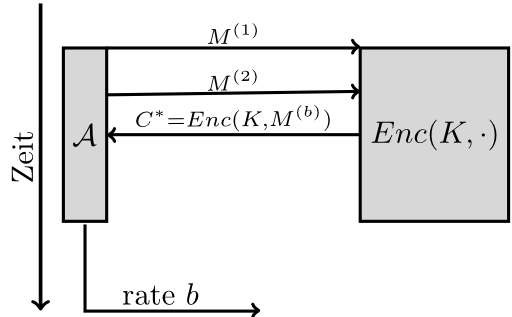
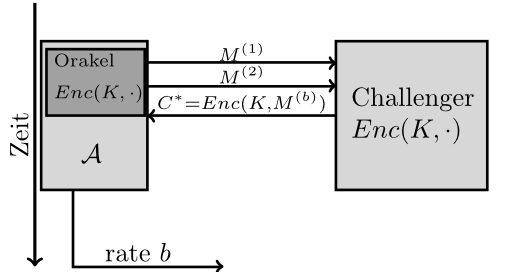
added Orakel and challenger

Changed region(s): [[0.0, 0.0, 1.0, 1.0], [0.125, 0.7059, 0.5312, 1.0]]

diff --git a/tikz/IND-CPA-Game/IND-CPA-Game.tex b/tikz/IND-CPA-Game/IND-CPA-Game.tex
@@ -9,14 +9,19 @@
 \tikzstyle{vertex}=[draw,fill=black!15,circle,minimum size=20pt,inner sep=0pt]
 \tikzstyle{encrypt}=[draw,fill=black!15,rectangle,minimum size=20pt,inner sep=0pt]
 \begin{tikzpicture}
-    \node (A)[draw, minimum height=2cm,fill=black!15] at (0,0) {$\mathcal{A}$};
-    \node (E)[draw, minimum height=2cm,fill=black!15] at (4,0) {$Enc(K, \cdot)$};
+    \draw[fill=black!15] (-0.4,-1) -- (1,-1) -- (1,1) -- (-0.4,1) --cycle;
+    \draw[fill=black!35] (-0.35,0) -- (0.95,-0) -- (0.95,0.9) -- (-0.35,0.9) --cycle;
+    \draw[fill=black!15] (3.5,-1) -- (5.5,-1) -- (5.5,1) -- (3.5,1) --cycle;
+    \node (A) at (0.25,-0.5) {$\mathcal{A}$};
+    \node[text width=2cm] (E) at (4.7,0) {Challenger\\$Enc(K, \cdot)$};
+    \node[text width=1.5cm] (O) at (0.5,0.5) {\scriptsize{Orakel\\$Enc(K, \cdot)$}};
 
-    \draw[->,thick] (A.north east)     -- node[sloped, above=-0.1cm] {$\scriptstyle M^{(1)}$} (E.north west);
-    \draw[->,thick] (A.60)             -- node[sloped, above=-0.1cm] {$\scriptstyle M^{(2)}$} (E.150);
-    \draw[->,thick] (E.179)            -- node[sloped, above=-0.1cm] {$\scriptstyle C^* = Enc(K, M^{(b)})$} (A.east);
 
-    \draw[->,thick] (A.south)|- node[sloped, above=0.19cm,right=0.3cm] {rate $b$} (2,-2);
+    \draw[->,thick] (1,0.7)  -- node[sloped, above=-0.1cm] {$\scriptstyle M^{(1)}$} (3.5,0.7);
+    \draw[->,thick] (1,0.4)  -- node[sloped, above=-0.1cm] {$\scriptstyle M^{(2)}$} (3.5,0.4);
+    \draw[<-,thick] (1,0.0)  -- node[sloped, above=-0.1cm] {$\scriptstyle C^* = Enc(K, M^{(b)})$} (3.5,0.0);
+
+    \draw[->,thick] (0,-1) |- node[sloped, above=0.19cm,right=0.3cm] {rate $b$} (2,-2);
     \draw[<-,very thick] (-0.5,-2) -- node[sloped, above=-0.05cm] {Zeit} (-0.5,1.5);
 \end{tikzpicture}
 \end{preview}
